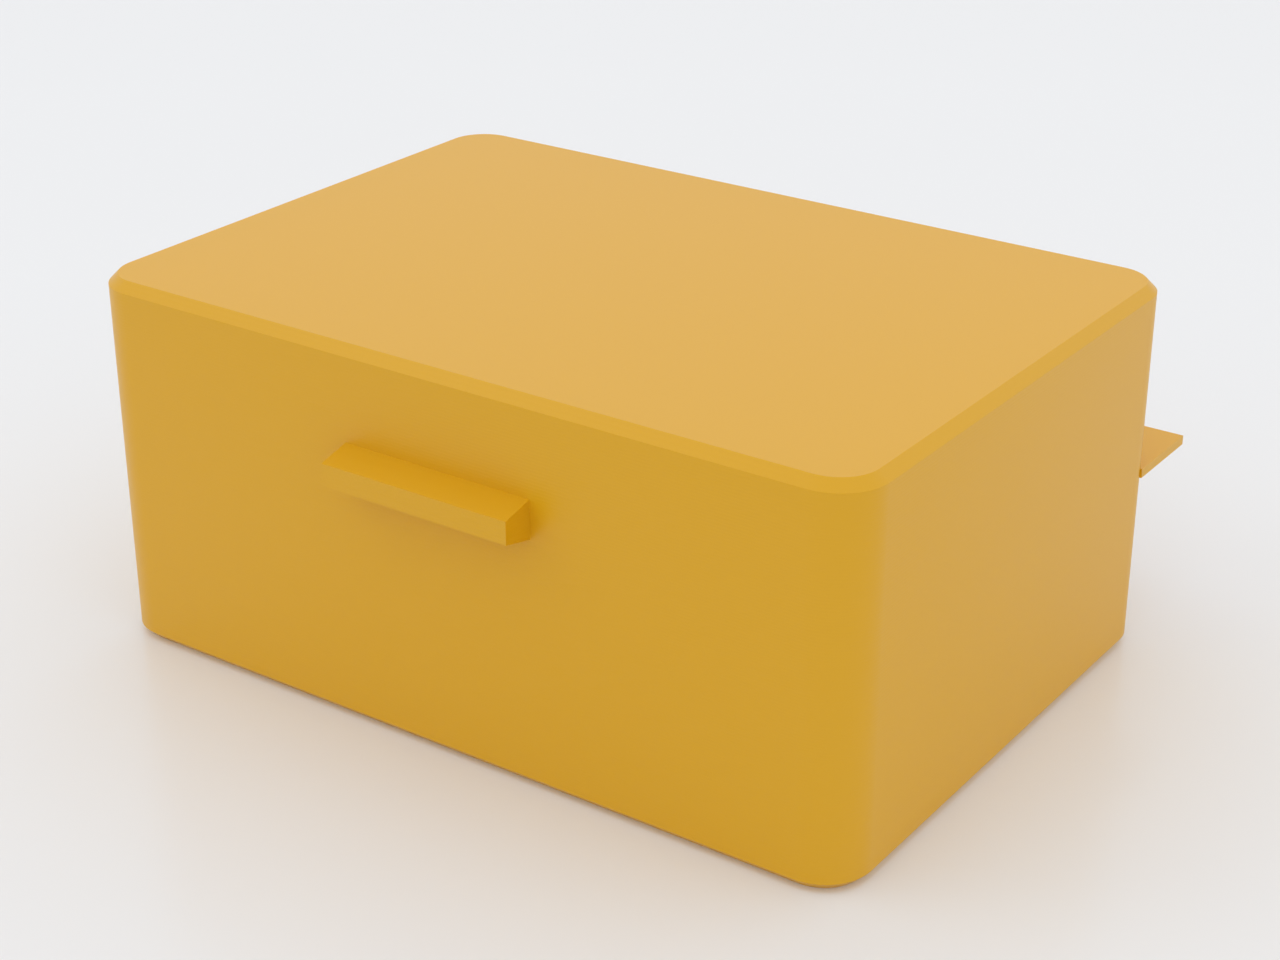
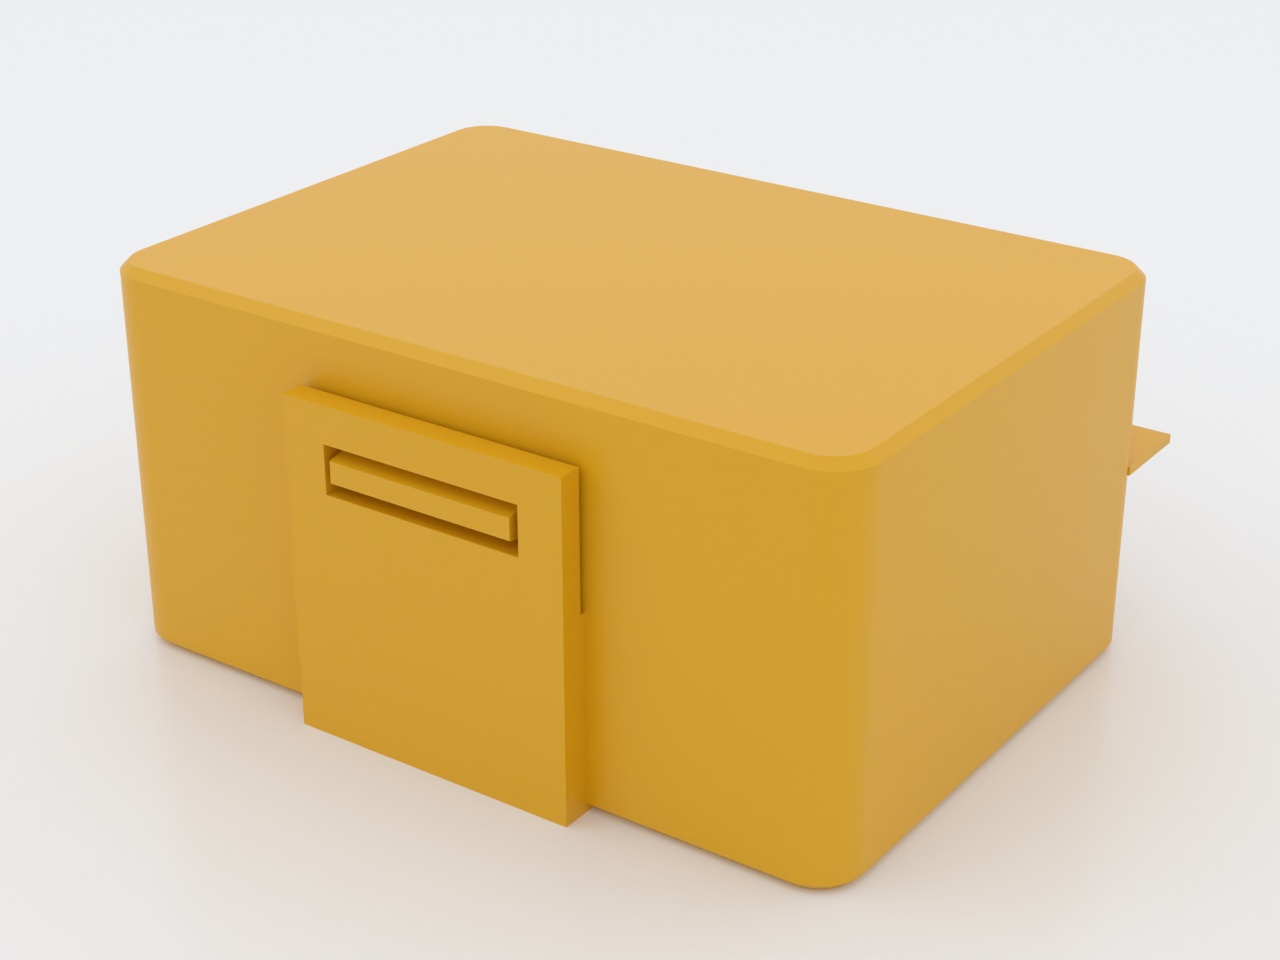
snap-clamshell-box: clear the closed-pose latch clash, fix README Z heights, fit an earbud (#268)
Stands the latch strip off the closed lid's wall band by latch_clr on a
sub-rim buttress (216.00 mm3 closed-pose clash -> 0, gated both directions by
ci.fitchecks), raises wall_h to 13 so the closed cavity (22.8 mm) holds an
earbud lying on its side, and corrects the README to measured dimensions.
Round 1: previews/cameras.conf owns closed-latched.png and the contact sheet
(closes the #69-style staleness), clr threads through base_latch, the
documented latch_clr minimum is asserted in the model, and the measured cam
event (28.09 mm3 peak at 176.5 deg, 0.40 mm land-to-land free play) is in
NOTES. Combines #271's latch_t arm thickness with the standoff, byte-identical
at defaults.

Closes #230, closes #265, closes #269.

diff --git a/designs/snap-clamshell-box/README.md b/designs/snap-clamshell-box/README.md
@@ -20,14 +20,21 @@ Closed and latched (preview pose):
 
 ## What you get
 
-- `snap-clamshell-box` — one flat print, ≈ 53 × 78 × 12 mm open; folds to a
-  ≈ 53 × 39 × 21 mm closed box with two compartments.
+- `snap-clamshell-box` — one flat print, ≈ 53 × 80.5 × 22 mm as printed (both
+  trays open and flat, the latch strip standing proud of the rim); folds to a
+  ≈ 53 × 43 × 26 mm closed box — the two tray-halves close face-to-face into one
+  deep compartment. The closed interior clears ≈ 22.8 mm — enough to hold a pair
+  of earbuds lying on their sides (21.8 mm is a bud's narrowest dimension; stood
+  upright they do not fit). Expect a faint click from the stowed buds in a bag —
+  the ~1 mm of clearance that makes them easy to drop in also lets them shift.
 
 ## Print settings
 
 - **Material:** PETG / PP for the living hinge (it folds many times); PLA will
   crack at the hinge
-- **Layer height:** 0.2 mm
+- **Layer height:** 0.2 mm or finer — the 0.6 mm living hinge is exactly
+  3 layers at 0.2 mm; 0.24 mm and coarser drops it to 2 and it will crack at
+  the fold
 - **Infill:** 20–30 %
 - **Supports:** none needed
 - **Orientation:** **flat, both trays open** (as modelled). Fold the lid 180° over
@@ -44,9 +51,13 @@ box closes.
 |---|---|---|
 | `inner_w` | 50 mm | inner tray width |
 | `inner_d` | 34 mm | inner tray depth (each tray) |
-| `wall_h` | 12 mm | wall height per tray |
+| `wall_h` | 13 mm | wall height per tray (closed interior ≈ 2·(wall_h − floor_t)) |
 | `hinge_t` | 0.6 mm | living-hinge web thickness (thin = folds easily; 0.4–1.0) |
 | `hook` | 2.0 mm | latch tab protrusion (snap strength) |
+| `latch_t` | 1.6 mm | latch strip (arm) thickness — drives snap stiffness; thickens outward, so the anti-clash clearance is preserved |
+| `latch_h` | 9 mm | latch strip height above the rim — drives `win_z` and the fold map (`tab_flat_z`) |
+| `hinge_gap` | 2.0 mm | spine gap between the trays that the hinge web bridges |
+| `latch_clr` | 2.0 mm | outward standoff of the latch strip so it clears the closed lid wall (≥ `wall_t` + a print clearance, asserted in the model) |
 
 All parameters are at the top of `snap-clamshell-box.scad`; override with
 `-D 'inner_w=60'`. `demo_fold` is a preview pose only — print at 0.

diff --git a/designs/snap-clamshell-box/previews/CAMERAS.md b/designs/snap-clamshell-box/previews/CAMERAS.md
@@ -1,0 +1,13 @@
+# Frozen preview cameras — snap-clamshell-box
+
+- `contact-sheet` — the standard 4-view sheet (iso / top / front / bottom-iso)
+  of the flat print pose. Owned here so `--previews` (and CI's regen) re-render
+  it whenever the geometry moves — it can never go stale again (issue #265,
+  the #69 hole).
+- `closed-latched` — the closed box (`demo_fold=180`) from a front-right
+  three-quarter, chosen so the latch fix reads at a glance: the windowed strip
+  standing `latch_clr` proud of the lid wall, the buttress step below it, and
+  the tab visible inside the window. Replaces a hand-committed straight-on
+  elevation no manifest produced (issue #265); the framing is deliberately new —
+  the old head-on view could not show the standoff, which is the feature the
+  fix added. Camera frozen 2026-08-16 (PR #268, round 1).
